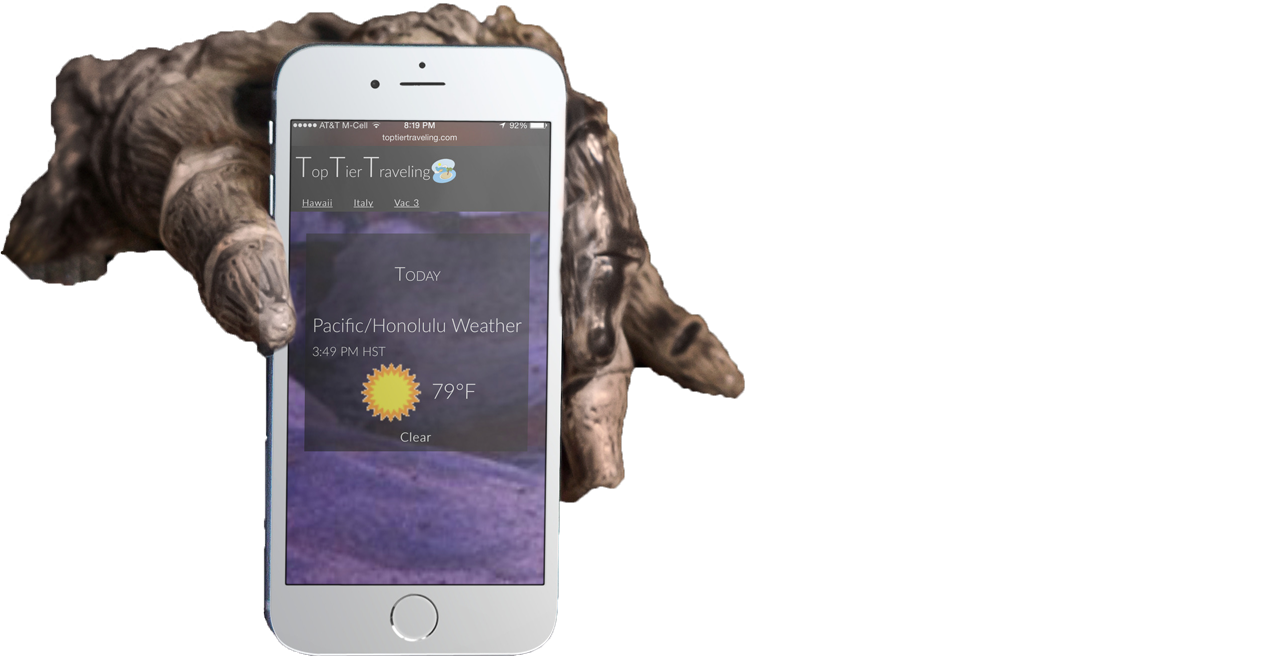
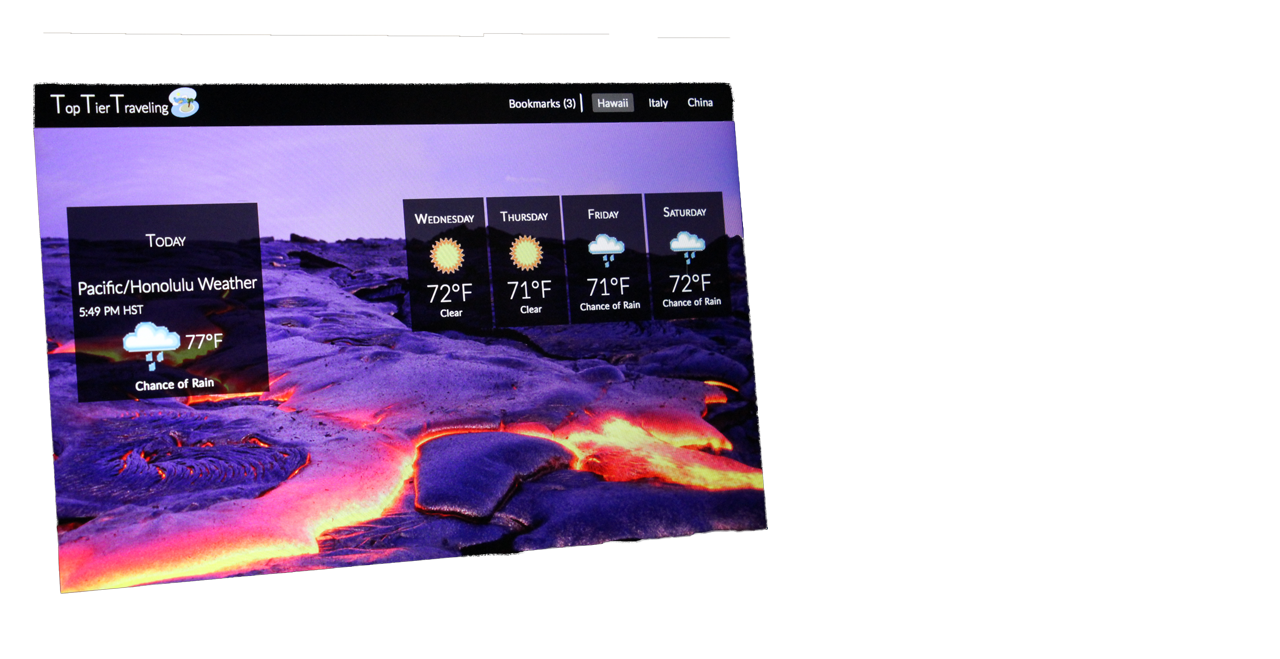
fixed home page carousel

diff --git a/app/assets/javascripts/pages_home.js b/app/assets/javascripts/pages_home.js
@@ -7,8 +7,6 @@ $(".welcome").owlCarousel({
 	itemsMobile : true
 });
 
-$('.welcome-show').css("min-height", $(window).height() - $('.header').height() - $('.arrow').height() - 10);
-
 $('.row > div').on('click', function(){
 	var vac_desc = $(this).attr("data-desc");
 	var dest = $($(this).children()[0]).text().toLowerCase();
@@ -30,6 +28,13 @@ $('.row > div').on('click', function(){
 			$('.desc').append(htmlObject);
 		},200);
 	},400);
+});
+
+$('.item img').css("height", 0.50 * $(window).height());
+$('.welcome-show').css("min-height", $(window).height() - $('.header').height() - $('.arrow').height() - 10);
+$(window).resize(function(e){
+	$('.item img').css("height", 0.50 * $(window).height());
+	$('.welcome-show').css("min-height", $(window).height() - $('.header').height() - $('.arrow').height() - 10);
 });
 
 $('.arrow').on('click', function(){

diff --git a/app/assets/stylesheets/owl.carousel.css b/app/assets/stylesheets/owl.carousel.css
@@ -4,7 +4,6 @@
 */
 
 .owl-theme .owl-controls{
-	margin-top: 10px;
 	text-align: center;
 }
 
